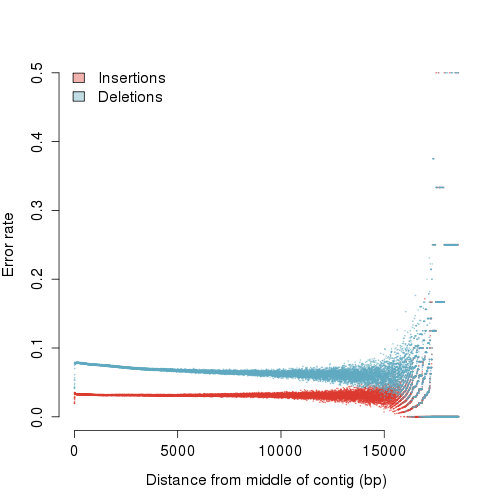
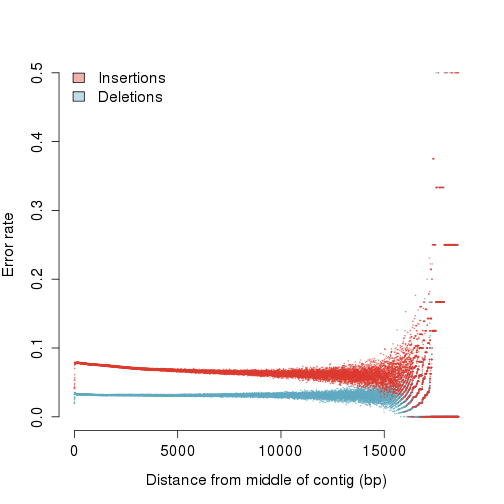
More explanatory text.  Fixed legend issues in errorsByPosition figure.  Plotted coverage histograms for PacBio and Illumina data over chr8.

Changed region(s): [[0.1488, 0.625, 0.9226, 0.8333]]

diff --git a/reports/FirstLook/README.md b/reports/FirstLook/README.md
@@ -6,75 +6,98 @@ A first look at the PacBio 3D7 data
 
 We prepared roughly 15ug of DNA from the canonical Plasmodium falciparum strain, 3D7, for sequencing on Cold Spring Harbor Laboratory's PacBio RS-II instrument.  This was sequenced on eight SMRT cells, which should yield approximately 100x coverage over the 23 megabase genome.  Having just received the filtered subreads (in unaligned and aligned form), we investigated some very basic properties of the data.
 
-Reads, read length
-==================
+Read length
+===========
 
-|key    |  numReads|  minLength|  maxLength|  meanLength|  n50Value|  alignedReads|  pctAligned|
-|:------|---------:|----------:|----------:|-----------:|---------:|-------------:|-----------:|
-|pb0    |     67425|         50|      35806|        6197|      9225|         60955|       90.40|
-|pb1    |     63527|         50|      37335|        6593|      9707|         57739|       90.89|
-|pb2    |     70147|         50|      40116|        6174|      9320|         63182|       90.07|
-|pb3    |     76364|         50|      35377|        6379|      9277|         68084|       89.16|
-|pb4    |     49238|         50|      33801|        5700|      8719|         45800|       93.02|
-|pb5    |     36364|         50|      35002|        5503|      8490|         33104|       91.04|
-|pb6    |     33385|         50|      34139|        5461|      8389|         29940|       89.68|
-|pb7    |     30082|         50|      35126|        5071|      8055|         26897|       89.41|
-|total  |    426532|         50|      40116|        6031|      9058|        385701|       90.43|
+|key    |  numReads|  minLength|  maxLength|  meanLength|  n50Value|
+|:------|---------:|----------:|----------:|-----------:|---------:|
+|pb0    |     67425|         50|      35806|        6197|      9225|
+|pb1    |     63527|         50|      37335|        6593|      9707|
+|pb2    |     70147|         50|      40116|        6174|      9320|
+|pb3    |     76364|         50|      35377|        6379|      9277|
+|pb4    |     49238|         50|      33801|        5700|      8719|
+|pb5    |     36364|         50|      35002|        5503|      8490|
+|pb6    |     33385|         50|      34139|        5461|      8389|
+|pb7    |     30082|         50|      35126|        5071|      8055|
+|total  |    426532|         50|      40116|        6031|      9058|
 
 
-We first examined read count and read length properties, as shown in the table above.  We have labeled data from each SMRT cell with a simple identifier, pb0 .. pb7 (the full identifier is a bit long and cumbersome to use). On average, each SMRT cell yields 5.3316 &times; 10<sup>4</sup> reads, typically 
-
-```
-
-Error in base::parse(text = code, srcfile = NULL) : 
-  2:0: unexpected end of input
-1: mean(subset(ls, key != "total")$meanLength
-   ^
-
-```
-
- bases long.  Most reads (~ 90.4584) align to the reference genome.
+We first examined read count and read length properties, as shown in the table above.  We have labeled data from each SMRT cell with a simple identifier, pb0 .. pb7 (the full identifier is a bit long and cumbersome to use everywhere). On average, each SMRT cell yields 5.3316 &times; 10<sup>4</sup> reads, typically 5884.704 bases long.
 
 We next examined the read length distribution, shown below.
 
 ![plot of chunk lengthHist](figure/lengthHist.png) 
 
 
+Interestingly, this distribution appears to be bimodal, with peaks at 1.1 kb and 8.0 kb.  The origin of these peaks are unclear.  Furthermore, they appear in all SMRT cells (see figure below), which could indicate a property of the library used for sequencing.  It is not clear whether this bimodality is from the original DNA sample or an artifact of the long-fragment library construction process.
+
 ![plot of chunk lengthHistPerRG](figure/lengthHistPerRG.png) 
 
-Interestingly, this distribution appears to be bimodal, with peaks at 1.1 kb and 8.0 kb.  The origin of these peaks are unclear.  Furthermore, they appear in all SMRT cells, which could indicate a property of the library used for sequencing.  It is not clear whether this bimodality is from the original DNA sample or an artifact of the long-fragment library construction process.
 
 Read alignment
 ==============
 
-We next examined the alignment of the reads to the reference.  To guide our expectations, we compare the PacBio alignments of the long-read data to BWA alignments of short-read data Illumina data (paired-end, 76-bp, ~200 bp fragment size) from the same parasite.  However, please note that the DNA source library for these two experiments is not the same.  The Illumina data is from sample PG0051-C, the 3D7 isolate sequenced on an Illumina GA2 for the P.f. crosses project.
+
+
+
+We next examined the alignment of the reads to the reference (as performed by CSHL using `pbalign`(?)).  To guide our expectations, we compare the PacBio alignments of the long-read data to BWA alignments of short-read data Illumina data (paired-end, 76-bp, ~200 bp fragment size) from the same parasite.  However, please note that the DNA source library for these two experiments is not the same.  The Illumina data is from sample PG0051-C, the 3D7 isolate sequenced on an Illumina GA2 for the P.f. crosses project.  The coverage metrics over the whole of chromosome 8 are listed in the table below:
+
+
+```
+## Error: object 'chr.il.chr8' not found
+```
+
+```
+## Error: object 'chr.il.chr8' not found
+```
+
+```
+## Error: object 'chr.il.chr8' not found
+```
+
+|id        |  median|    mean|     sd|
+|:---------|-------:|-------:|------:|
+|PacBio    |      81|   80.87|  14.36|
+|Illumina  |     132|  118.75|  62.52|
+
+
+![plot of chunk coverageDist](figure/coverageDist.png) 
+
+
+We manually inspected the alignments in IGV across the entire length of chromosome 1.
 
 ![IGV1](figure/IGV_chr1.png)
 
+Strikingly, the PacBio data appears to have uniform coverage across the entire length of chromosome 1, while the Illumina data shows many peaks and valleys along the same chromosome.  Zooming in closer (below), we can see that the PacBio reads are replete with insertions, typically one base long, as expected.
+
 ![IGV2](figure/IGV_indelerrors.png)
 
-Strikingly, the PacBio data appears to have uniform coverage across the entire length of chromosome 1, while the Illumina data shows many peaks and valleys along the same chromosome.
 
+Genome accessibility
+--------------------
 
-
+We sought to examine regions of the P. falciparum genome that are inaccessible with Illumina reads but accessible with PacBio reads.  We computed coverage profiles across each autosome by computing coverage at every nucleotide using the GATK's `DepthOfCoverage` tool, and showing the minimum coverage value found in 2,000-bp bins.  We've plotted the PacBio coverage above the appropriate ideogram and the Illumina coverage underneath it (and flipped upside-down) in the plot below.  Red and gray regions indicate areas of the genome deemed to be inaccessible (from Alistair Miles's accessibility calculations on MalariaGen datasets, personal communication).
 
 ![plot of chunk showCoverageOverIdeogram](figure/showCoverageOverIdeogram.png) 
 
 
-|id        |    mean|     sd|  median|
-|:---------|-------:|------:|-------:|
-|PacBio    |   80.87|  14.36|      81|
-|Illumina  |  118.75|  62.52|     132|
+It is evident that the PacBio coverage is roughly uniform across the entire length of the chromosome.  In contrast, the Illumina coverage spikes and dips as it moves along, reaching zero coverage in many regions (especially the biologically interesting subtelomeric repetitive regions).  Let us examine a few of these places more closely.
 
 
 
 
-
+### Centromere on chromosome 4
 ![plot of chunk coverageCentromere](figure/coverageCentromere.png) 
 
 
+### All 28 subtelomeric regions
 ![plot of chunk coverageSubtelomericRepeats](figure/coverageSubtelomericRepeats1.png) ![plot of chunk coverageSubtelomericRepeats](figure/coverageSubtelomericRepeats2.png) ![plot of chunk coverageSubtelomericRepeats](figure/coverageSubtelomericRepeats3.png) ![plot of chunk coverageSubtelomericRepeats](figure/coverageSubtelomericRepeats4.png) ![plot of chunk coverageSubtelomericRepeats](figure/coverageSubtelomericRepeats5.png) ![plot of chunk coverageSubtelomericRepeats](figure/coverageSubtelomericRepeats6.png) ![plot of chunk coverageSubtelomericRepeats](figure/coverageSubtelomericRepeats7.png) ![plot of chunk coverageSubtelomericRepeats](figure/coverageSubtelomericRepeats8.png) ![plot of chunk coverageSubtelomericRepeats](figure/coverageSubtelomericRepeats9.png) ![plot of chunk coverageSubtelomericRepeats](figure/coverageSubtelomericRepeats10.png) ![plot of chunk coverageSubtelomericRepeats](figure/coverageSubtelomericRepeats11.png) ![plot of chunk coverageSubtelomericRepeats](figure/coverageSubtelomericRepeats12.png) ![plot of chunk coverageSubtelomericRepeats](figure/coverageSubtelomericRepeats13.png) ![plot of chunk coverageSubtelomericRepeats](figure/coverageSubtelomericRepeats14.png) ![plot of chunk coverageSubtelomericRepeats](figure/coverageSubtelomericRepeats15.png) ![plot of chunk coverageSubtelomericRepeats](figure/coverageSubtelomericRepeats16.png) ![plot of chunk coverageSubtelomericRepeats](figure/coverageSubtelomericRepeats17.png) ![plot of chunk coverageSubtelomericRepeats](figure/coverageSubtelomericRepeats18.png) ![plot of chunk coverageSubtelomericRepeats](figure/coverageSubtelomericRepeats19.png) ![plot of chunk coverageSubtelomericRepeats](figure/coverageSubtelomericRepeats20.png) ![plot of chunk coverageSubtelomericRepeats](figure/coverageSubtelomericRepeats21.png) ![plot of chunk coverageSubtelomericRepeats](figure/coverageSubtelomericRepeats22.png) ![plot of chunk coverageSubtelomericRepeats](figure/coverageSubtelomericRepeats23.png) ![plot of chunk coverageSubtelomericRepeats](figure/coverageSubtelomericRepeats24.png) ![plot of chunk coverageSubtelomericRepeats](figure/coverageSubtelomericRepeats25.png) ![plot of chunk coverageSubtelomericRepeats](figure/coverageSubtelomericRepeats26.png) ![plot of chunk coverageSubtelomericRepeats](figure/coverageSubtelomericRepeats27.png) ![plot of chunk coverageSubtelomericRepeats](figure/coverageSubtelomericRepeats28.png) 
 
+
+Error rate along the length of the read
+---------------------------------------
+
+Finally, we examined the error rate as a function of distance from the center of the contig (this is a slightly more meaningful measure for contigs, where it is easy to see error piling up towards the end of contigs, associated with the end of a graph traversal, but we have the code so we might as well look).  Here, we take a read, fold it in half, and start measuring the rate of insertion and deletion errors as a function of distance from the center of the read.  The result is shown below.  Insertion and deletion errors are found uniformly along the length of the reads.  Towards the tail end, we start to see a lot more variance in this rate as reads that reach these lengths become more infrequent.
 
 ![plot of chunk errorsByPosition](figure/errorsByPosition.png) 
 
